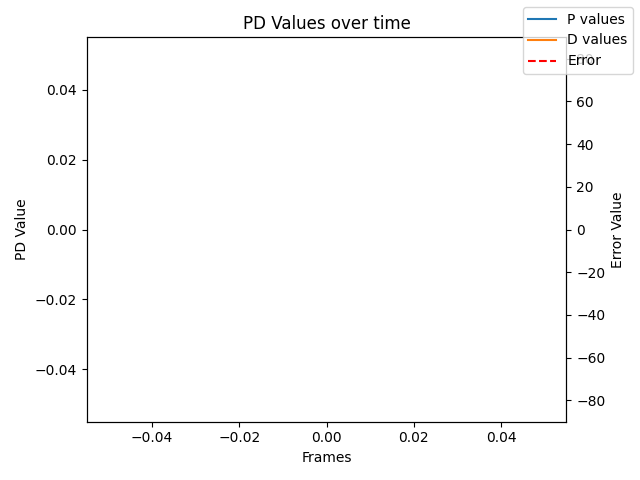
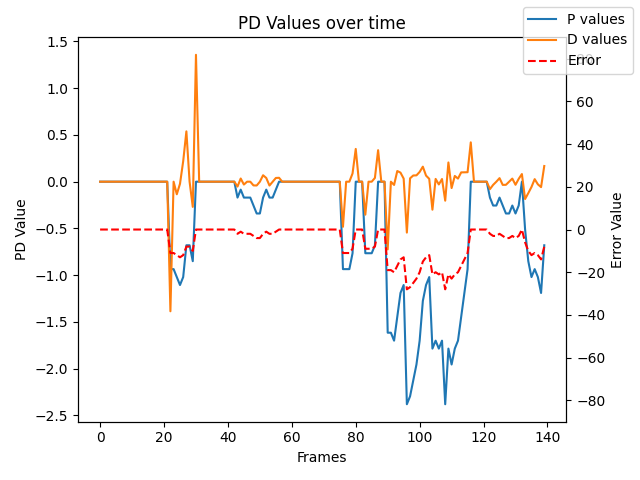
working w speed encoding

diff --git a/LaneKeepingAlgorithm.py b/LaneKeepingAlgorithm.py
@@ -1,5 +1,7 @@
 import cv2
 import numpy as np
+import matplotlib
+matplotlib.use('TkAgg')
 import matplotlib.pyplot as plt
 import math
 import sys
@@ -10,6 +12,10 @@ import time
 
 # Throttle
 current_speed = 1550000
+
+# Lists for graphs
+speed_list = []
+steering_list = []
 
 max_speed = 1600000
 speed_step = 2500
@@ -168,6 +174,10 @@ def stop():
     :return: none
     """
 
+    global current_speed
+
+    current_speed = 1550000
+
     with open('/dev/bone/pwm/1/a/period', 'w') as filetowrite:
         filetowrite.write('20000000')
     with open('/dev/bone/pwm/1/a/duty_cycle', 'w') as filetowrite:
@@ -185,9 +195,18 @@ def go():
     """
     global current_speed
 
+    current_speed = 1650000
 
     with open('/dev/bone/pwm/1/a/duty_cycle', 'w') as filetowrite:
-        filetowrite.write('1647000')
+        filetowrite.write('1643000')
+
+def boost():
+    global current_speed
+
+    current_speed = 1655000
+
+    with open('/dev/bone/pwm/1/a/duty_cycle', 'w') as filetowrite:
+        filetowrite.write('1644000')  
 
 
 
@@ -540,13 +559,15 @@ while counter < max_ticks:
                 time.sleep(4)
                 passedFirstStopSign = True
                 # this is used to not check for the second stop sign until many frames later
-                secondStopSignTick = counter + 75
+                secondStopSignTick = counter + 15
                 # now check for stop sign less frequently
                 stopSignCheck = 3
                 # add a delay to calling go faster
                 go_faster_tick = counter + go_faster_tick_delay
                 print("first stop finished!")
                 go()
+
+
         # check for the second stop sign
         elif passedFirstStopSign and counter > secondStopSignTick:
             isStop2SignBool, _ = isRedFloorVisible(frame)
@@ -584,6 +605,9 @@ while counter < max_ticks:
     derivative = kd * (error - lastError) / dt
 
     # take values for graphs
+    p_vals.append(proportional)
+    d_vals.append(derivative)
+    err_vals.append(error)
 
 
     # determine actual turn to do
@@ -606,6 +630,22 @@ while counter < max_ticks:
         
         turn(turn_amt)
 
+    steer_pwm.append(turn_amt)
+    speed_pwm.append(current_speed)
+
+    lastError = error
+    lastTime = time.time()
+
+    # Use speed encoding to give the car a 'boost' if needed
+    with open('/sys/module/gpiod_driver/parameters/diff') as f:
+        lines = f.readlines()
+        if lines:
+            dif = int(lines[0])
+            print("Received difference of " + str(dif))
+            if dif > 100:
+                boost()
+                current_speed = 1650000
+
     # turn! 
     #PWM.set_duty_cycle(steeringPin, turn_amt)
 
@@ -624,11 +664,7 @@ while counter < max_ticks:
 stop()
 video.release()
 cv2.destroyAllWindows()
-#PWM.set_duty_cycle(throttlePin, 7.5)
-#PWM.set_duty_cycle(steeringPin, 7.5)
-#PWM.stop(throttlePin)
-#PWM.stop(steeringPin)
-#PWM.cleanup()
+
 
 plot_pd(p_vals, d_vals, err_vals, True)
 plot_pwm(speed_pwm, steer_pwm, err_vals, True)
